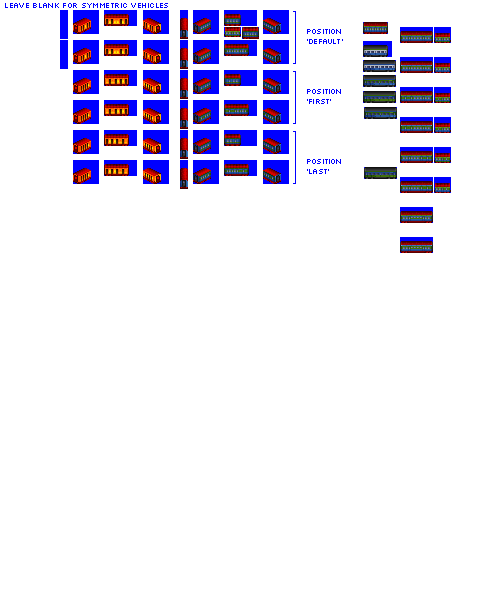
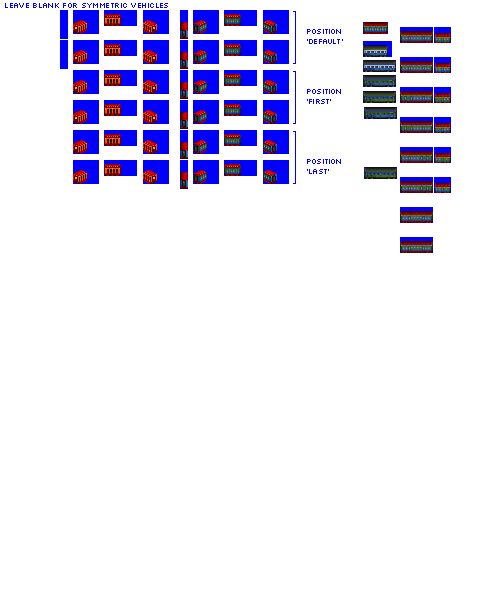
Change: sprites complete for gen 1A and 2A pax cars

diff --git a/src/vehicles/passenger_cars.py b/src/vehicles/passenger_cars.py
@@ -47,7 +47,7 @@ def main():
                                   base_numeric_id=3300,
                                   gen=1,
                                   subtype='A',
-                                  sprites_complete=False)
+                                  sprites_complete=True)
 
     consist.add_unit(type=PaxCar,
                      capacity=20,
@@ -69,7 +69,7 @@ def main():
                                   base_numeric_id=3310,
                                   gen=2,
                                   subtype='A',
-                                  sprites_complete=False)
+                                  sprites_complete=True)
 
     consist.add_unit(type=PaxCar,
                      capacity=20,
